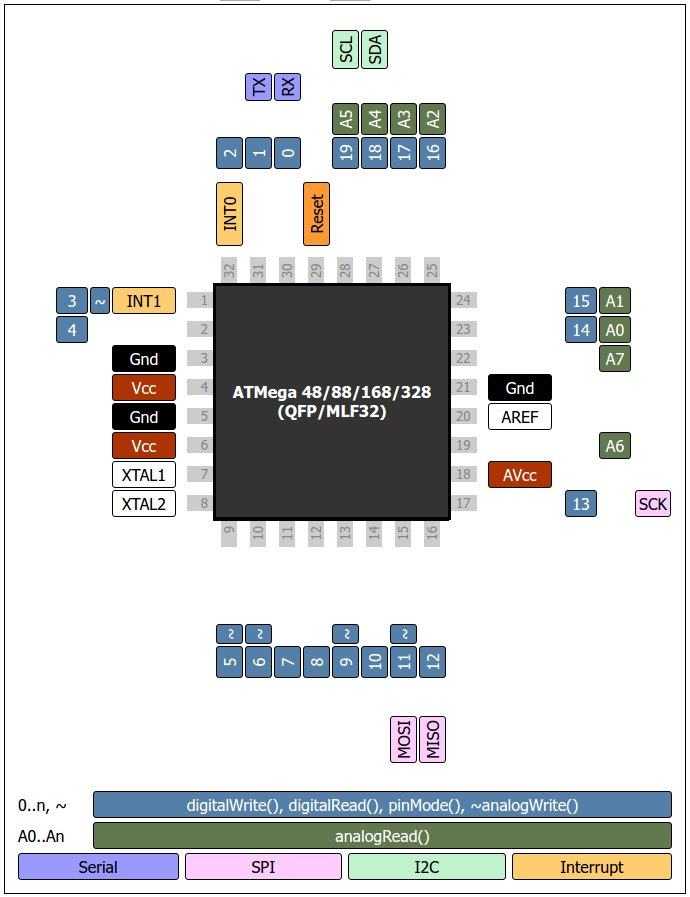
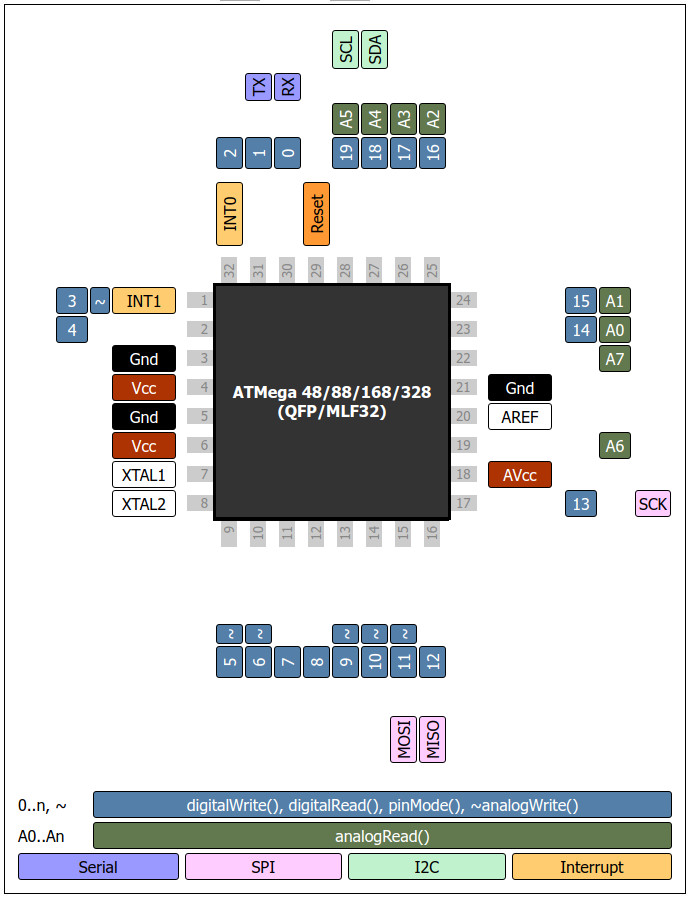
Missing a PWM indicator on D10 in the 48/88/178/328

diff --git a/templates.js b/templates.js
@@ -236,7 +236,7 @@ var templates = [
           Pins   :  32     ,
           
           PRC    :   { Vcc:[4,6,], AVcc: 18, Gnd:[3,5,21], Reset: 29, XTAL1: 7, XTAL2: 8, AREF:20, Interrupt: [32,1]}, // PRC = Power, Reset and Clock
-          PWM    :   [1,9,10,13,15],
+          PWM    :   [1,9,10,13,14,15],
           Digital:   [30,31,32,1,2,9,10,11,12,13,14,15,16,17,23,24,25,26,27,28], 
           Analog :   [23,24,25,26,27,28,19,22],
           
